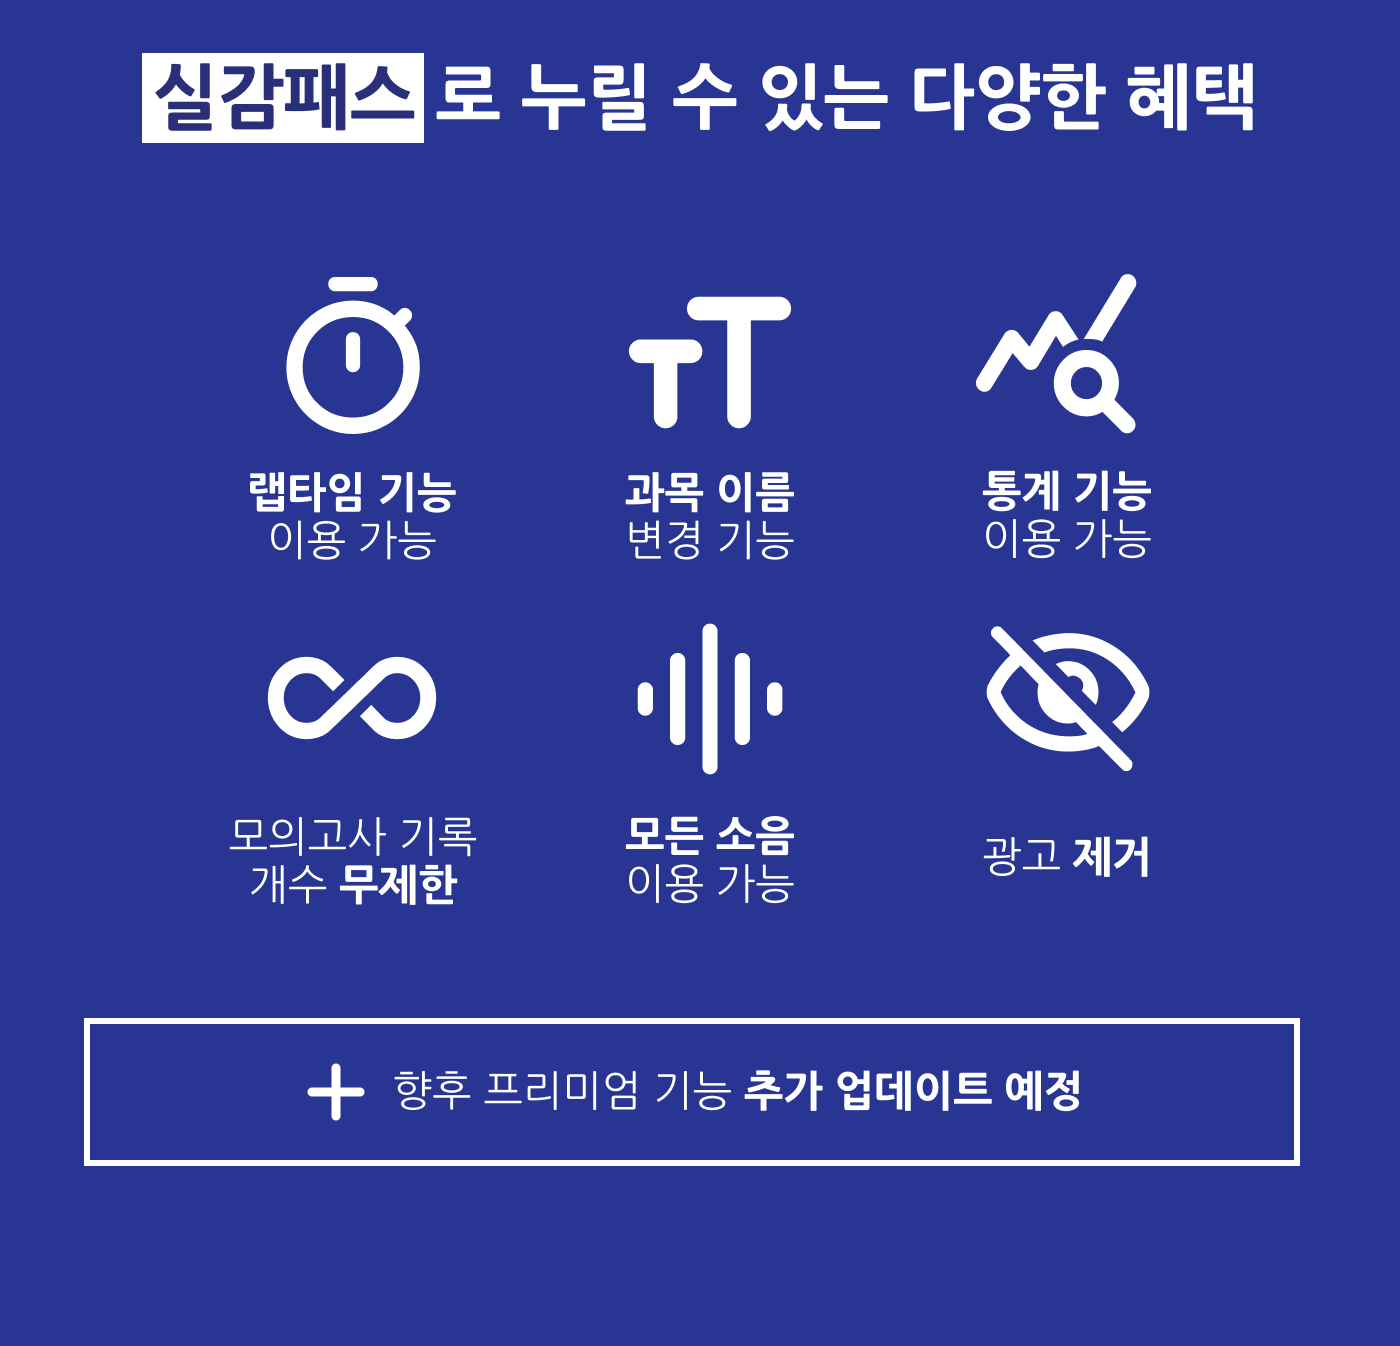
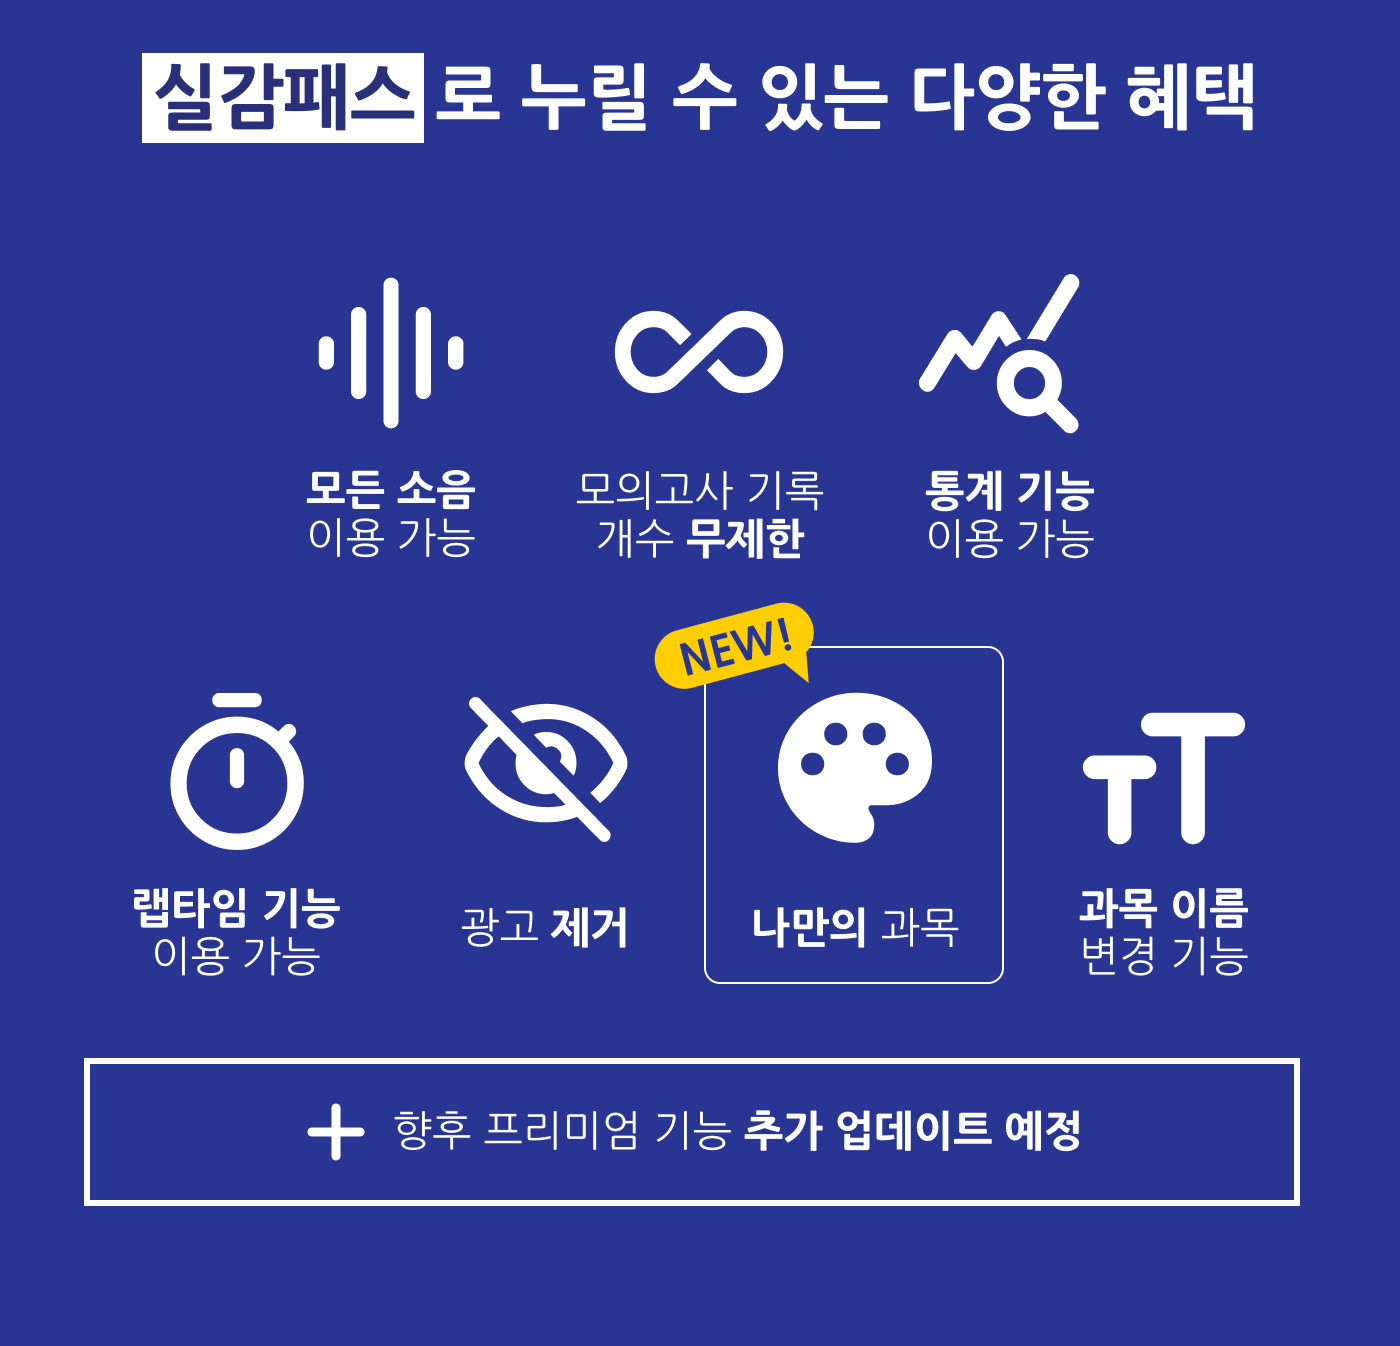
패스 페이지 수정, 커스텀 과목 소개 추가

diff --git a/src/components/SilgamPassPage/index.tsx b/src/components/SilgamPassPage/index.tsx
@@ -6,6 +6,7 @@ import ReviewSection, { Review } from "@/components/ReviewSection";
 import { ROUTES } from "@/consts/routes";
 import purchaseButtonImage from "@/static/images/pass_page/button_purchase.png";
 import trialButtonImage from "@/static/images/pass_page/button_trial.png";
+import sectionCustomSubjectImage from "@/static/images/pass_page/sections/section_custom_subject.png";
 import section1ImageBefore from "@/static/images/pass_page/sections/section1_20240604.png";
 import section1ImageAfter from "@/static/images/pass_page/sections/section1_20240608.png";
 import section2Image from "@/static/images/pass_page/sections/section2.png";
@@ -38,6 +39,7 @@ export default function SilgamPassPage({ reviews }: SilgampassPageProps) {
   if (isNaN(flutterBuildNumber)) {
     flutterBuildNumber = undefined;
   }
+  const isCustomExamAvailable = flutterBuildNumber && flutterBuildNumber >= 95;
 
   const section8Ref = createRef<HTMLDivElement>();
   const isBefore = new Date() < new Date("2024-06-08T00:00:00+09:00");
@@ -83,7 +85,7 @@ export default function SilgamPassPage({ reviews }: SilgampassPageProps) {
 
   const showCustomExamGuide = () => {
     const webView = window.FlutterWebView;
-    if (webView) {
+    if (webView && isCustomExamAvailable) {
       webView.postMessage("showCustomExamGuide");
     } else {
       window.open(ROUTES.DOWNLOAD, "_blank");
@@ -94,13 +96,6 @@ export default function SilgamPassPage({ reviews }: SilgampassPageProps) {
     <>
       <Script src="/static/scripts/product_page.js" />
       <Styled.Container>
-        {flutterBuildNumber && flutterBuildNumber >= 999 ? (
-          // TODO: 커스텀 과목 소개 추가
-          <Styled.Section>
-            커스텀 과목 소개
-            <button onClick={showCustomExamGuide}>더 알아보기</button>
-          </Styled.Section>
-        ) : null}
         <Styled.Section>
           <Styled.SectionImage
             src={isBefore ? section1ImageBefore : section1ImageAfter}
@@ -112,6 +107,17 @@ export default function SilgamPassPage({ reviews }: SilgampassPageProps) {
         <Styled.Section>
           <Styled.SectionImage src={section2Image} alt="section" />
         </Styled.Section>
+        {isCustomExamAvailable ? (
+          <Styled.Section
+            onClick={showCustomExamGuide}
+            style={{ cursor: "pointer" }}
+          >
+            <Styled.SectionImage
+              src={sectionCustomSubjectImage}
+              alt="section"
+            />
+          </Styled.Section>
+        ) : null}
         <Styled.Section>
           <Styled.SectionImage src={section3Image} alt="section" />
         </Styled.Section>
